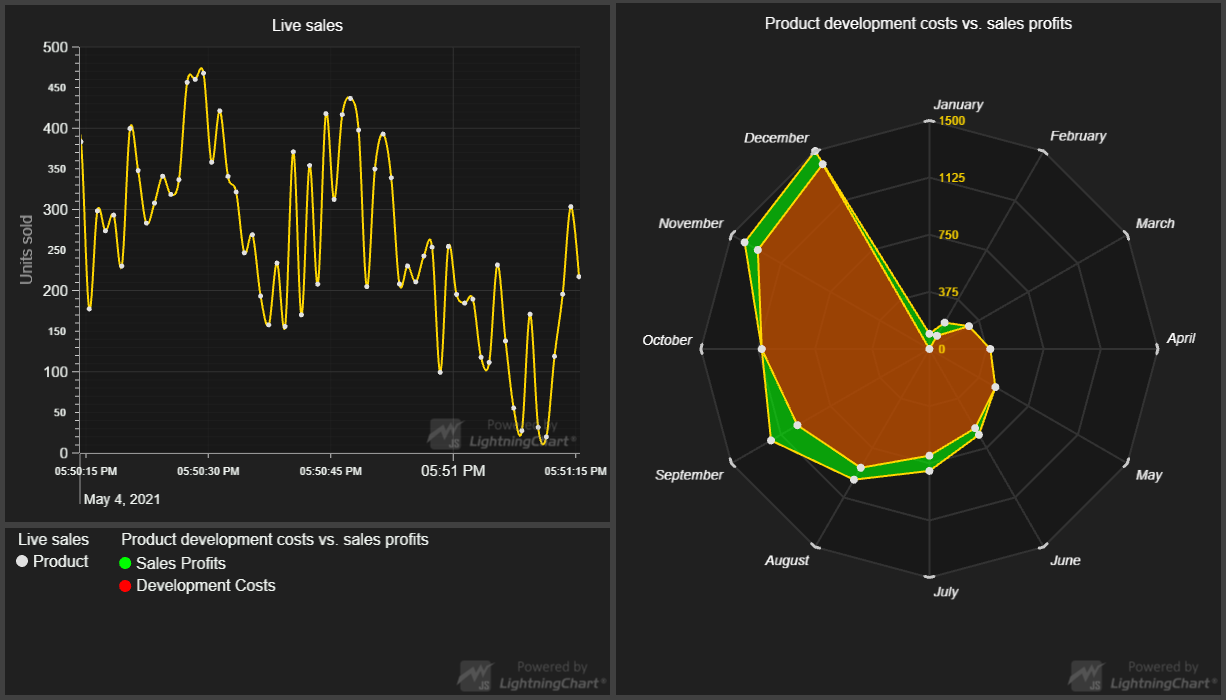
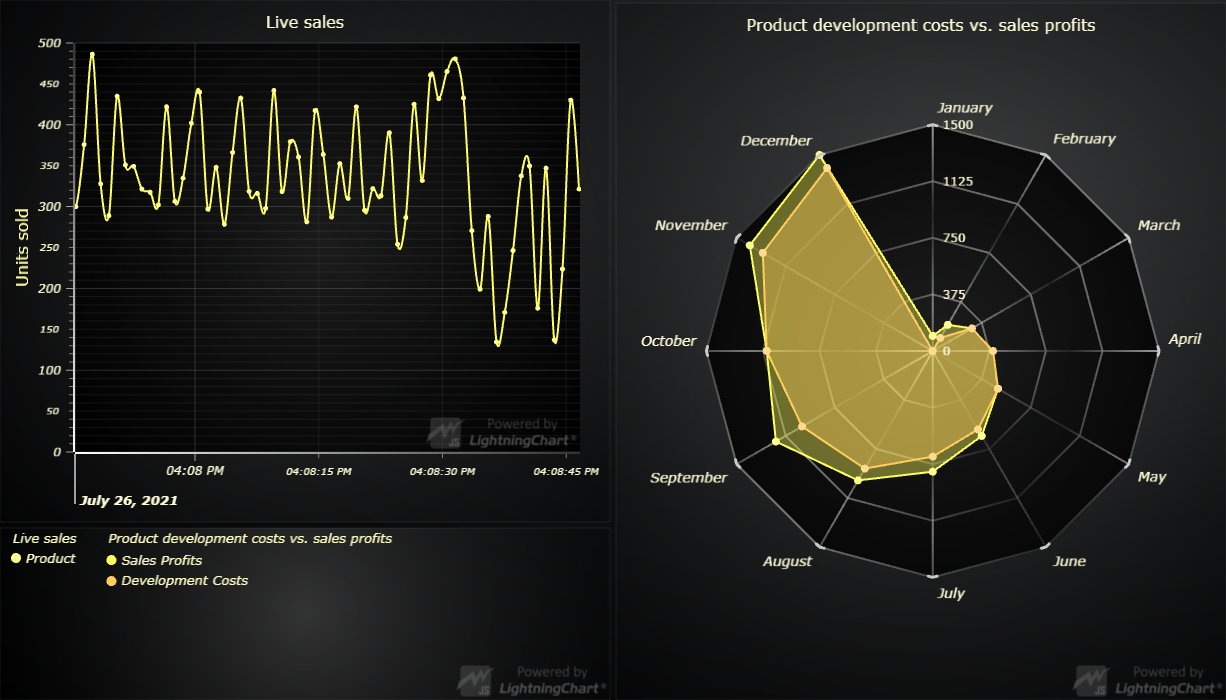
Update LCJS version

diff --git a/src/index.js b/src/index.js
@@ -7,16 +7,11 @@ const lcjs = require('@arction/lcjs')
 // Extract required parts from LightningChartJS.
 const {
     lightningChart,
-    ColorRGBA,
     AxisScrollStrategies,
     PointShape,
-    SolidFill,
     AxisTickStrategies,
     Themes
 } = lcjs
-
-const colors = [ColorRGBA(0, 255, 0, 0), ColorRGBA(255, 0, 0, 0)]
-const fillStyles = colors.map((color) => new SolidFill({ color: color.setA(150) }))
 
 // Import data-generators from 'xydata'-library.
 const {
@@ -25,7 +20,7 @@ const {
 
 // Create Dashboard and stand-alone LegendBox.
 const db = lightningChart().Dashboard({
-    // theme: Themes.dark 
+    // theme: Themes.darkGold 
     numberOfRows: 2,
     numberOfColumns: 2
 })
@@ -108,7 +103,6 @@ const legend = db.createLegendBoxPanel({
 
     chart.addSeries(PointShape.Circle)
         .setName('Sales Profits')
-        .setFillStyle(fillStyles[0])
         .addPoints(
             { axis: 'January', value: 100 },
             { axis: 'February', value: 200 },
@@ -131,7 +125,6 @@ const legend = db.createLegendBoxPanel({
 
     chart.addSeries(PointShape.Circle)
         .setName('Development Costs')
-        .setFillStyle(fillStyles[1])
         .addPoints(
             { axis: 'January', value: 0 },
             { axis: 'February', value: 100 },

diff --git a/webpack.config.js b/webpack.config.js
@@ -69,7 +69,8 @@ module.exports = {
         }),
         new CopyWebpackPlugin({
             patterns: [
-                { from: './assets/**/*', to: './examples/assets', flatten: true, noErrorOnMissing: true }
+                { from: './assets/**/*', to: './examples/assets', flatten: true, noErrorOnMissing: true },
+                { from: './node_modules/@arction/lcjs/dist/resources', to: 'resources', noErrorOnMissing: true },
             ]
         })
     ]

diff --git a/README.md b/README.md
@@ -116,12 +116,12 @@ Direct developer email support can be purchased through a [Support Plan][4] or b
 © Arction Ltd 2009-2020. All rights reserved.
 
 
-[Dashboard]: https://www.arction.com/lightningchart-js-api-documentation/v3.0.1/classes/dashboard.html
-[Legend box panel]: https://www.arction.com/lightningchart-js-api-documentation/v3.0.1/classes/uilegendboxpanel.html
-[XY cartesian chart]: https://www.arction.com/lightningchart-js-api-documentation/v3.0.1/classes/chartxy.html
-[Spline series]: https://www.arction.com/lightningchart-js-api-documentation/v3.0.1/classes/splineseries.html
-[Scroll strategies]: https://www.arction.com/lightningchart-js-api-documentation/v3.0.1/globals.html#axisscrollstrategies
-[Spider chart]: https://www.arction.com/lightningchart-js-api-documentation/v3.0.1/classes/spiderchart.html
-[RGBA color factory]: https://www.arction.com/lightningchart-js-api-documentation/v3.0.1/globals.html#colorrgba
-[UI position origins]: https://www.arction.com/lightningchart-js-api-documentation/v3.0.1/globals.html#uiorigins
+[Dashboard]: https://www.arction.com/lightningchart-js-api-documentation/v3.1.0/classes/dashboard.html
+[Legend box panel]: https://www.arction.com/lightningchart-js-api-documentation/v3.1.0/classes/uilegendboxpanel.html
+[XY cartesian chart]: https://www.arction.com/lightningchart-js-api-documentation/v3.1.0/classes/chartxy.html
+[Spline series]: https://www.arction.com/lightningchart-js-api-documentation/v3.1.0/classes/splineseries.html
+[Scroll strategies]: https://www.arction.com/lightningchart-js-api-documentation/v3.1.0/globals.html#axisscrollstrategies
+[Spider chart]: https://www.arction.com/lightningchart-js-api-documentation/v3.1.0/classes/spiderchart.html
+[RGBA color factory]: https://www.arction.com/lightningchart-js-api-documentation/v3.1.0/globals.html#colorrgba
+[UI position origins]: https://www.arction.com/lightningchart-js-api-documentation/v3.1.0/globals.html#uiorigins
 
